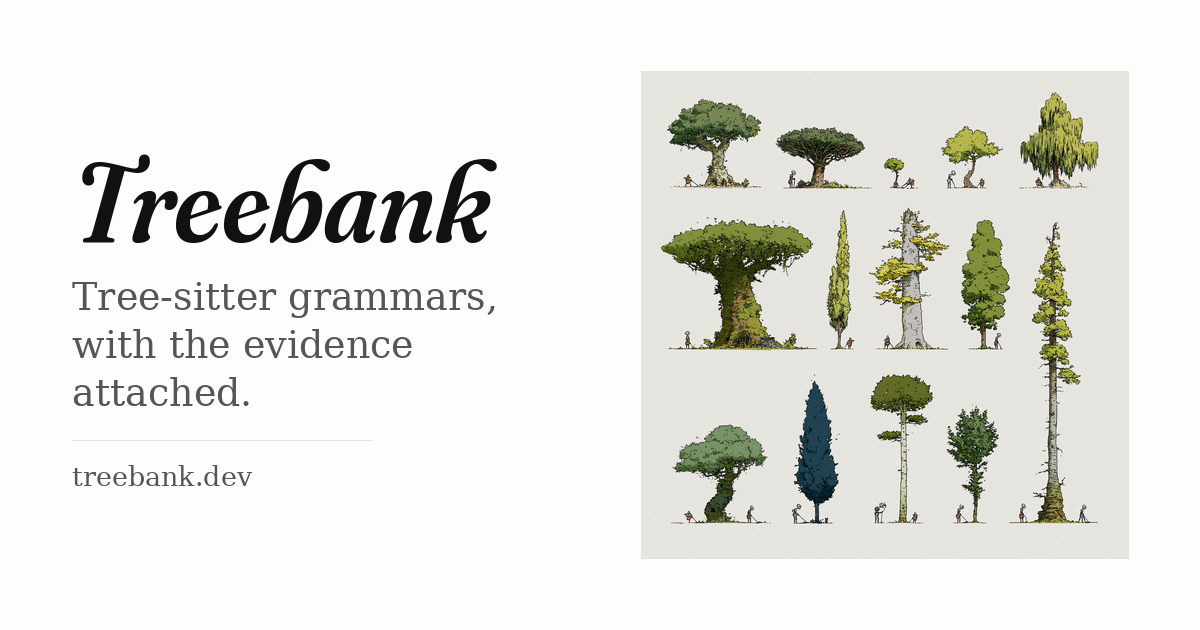
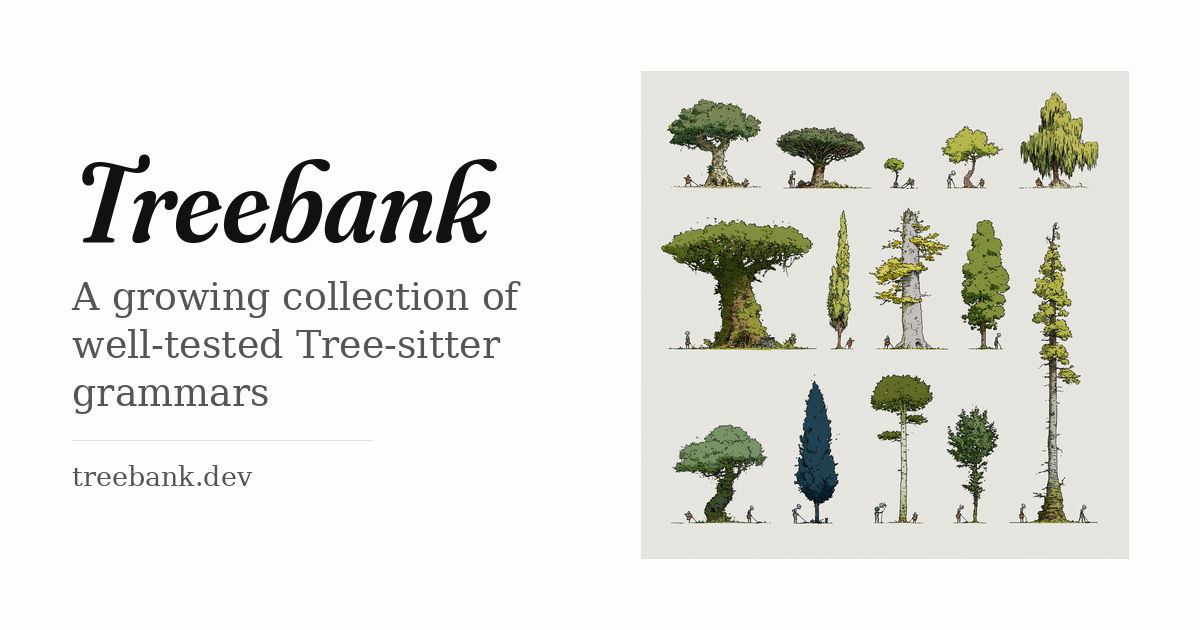
site: the tagline, and what each grammar declares about itself
Tagline is now "A growing collection of well-tested Tree-sitter grammars",
in the site build, the landing page and the social card.

The status panel gained a Declarations block: the four policy files a grammar
keeps, and whether each has anything in it. They are the mechanism behind the
gaps and widenings already listed -- shape_policy for tree shapes that
knowingly differ from the reference parser's, fuzz_policy for derivations the
fuzzer may produce that the language does not accept, version_policy for
older syntax rejected on purpose, lint_policy for structural ratchets the
lint is held to rather than advising.

Worth saying on the page rather than only in the repository, because the
declaration is what makes the difference a decision instead of a bug: an
undeclared deviation is a failing gate, so "none" means the grammar has
nothing to declare rather than that nobody looked.

Read from the inventory's known_deviations, which matches the policy files on
disk exactly -- checked across all nine before trusting it.

Claude-Session: https://claude.ai/code/session_01H7heeNg7AzGPiTpjSFTFyz

Changed region(s): [[0.0617, 0.4524, 0.4317, 0.573], [0.0617, 0.6032, 0.2158, 0.6635]]

diff --git a/site/src/grammar.css b/site/src/grammar.css
@@ -270,3 +270,14 @@ ul.ledger { margin: .4rem 0 1.25rem; padding-left: 1.1rem; font-size: .88rem; }
 ul.ledger li { margin: .3rem 0; }
 p.note { font-size: .82rem; margin: .35rem 0 1rem; }
 .dim { color: var(--dim); }
+
+/* The policy files a grammar keeps. A declaration is not decoration: an
+   undeclared deviation is a failing gate, so "none" here means the grammar
+   has nothing to declare rather than that nobody looked. */
+dl.declared { margin: .5rem 0 1.5rem; }
+dl.declared dt {
+  display: flex; align-items: baseline; gap: .45rem; margin-top: .6rem;
+  font-family: var(--font-mono); font-size: .82rem;
+}
+dl.declared dt.off code { color: var(--dim); }
+dl.declared dd { margin: .1rem 0 0; font-size: .84rem; color: var(--dim); }

diff --git a/site/content/index.md b/site/content/index.md
@@ -1,6 +1,6 @@
 ---
 title: Treebank
-description: Tree-sitter grammars, with the evidence attached.
+description: A growing collection of well-tested Tree-sitter grammars
 ---
 
 <style>
